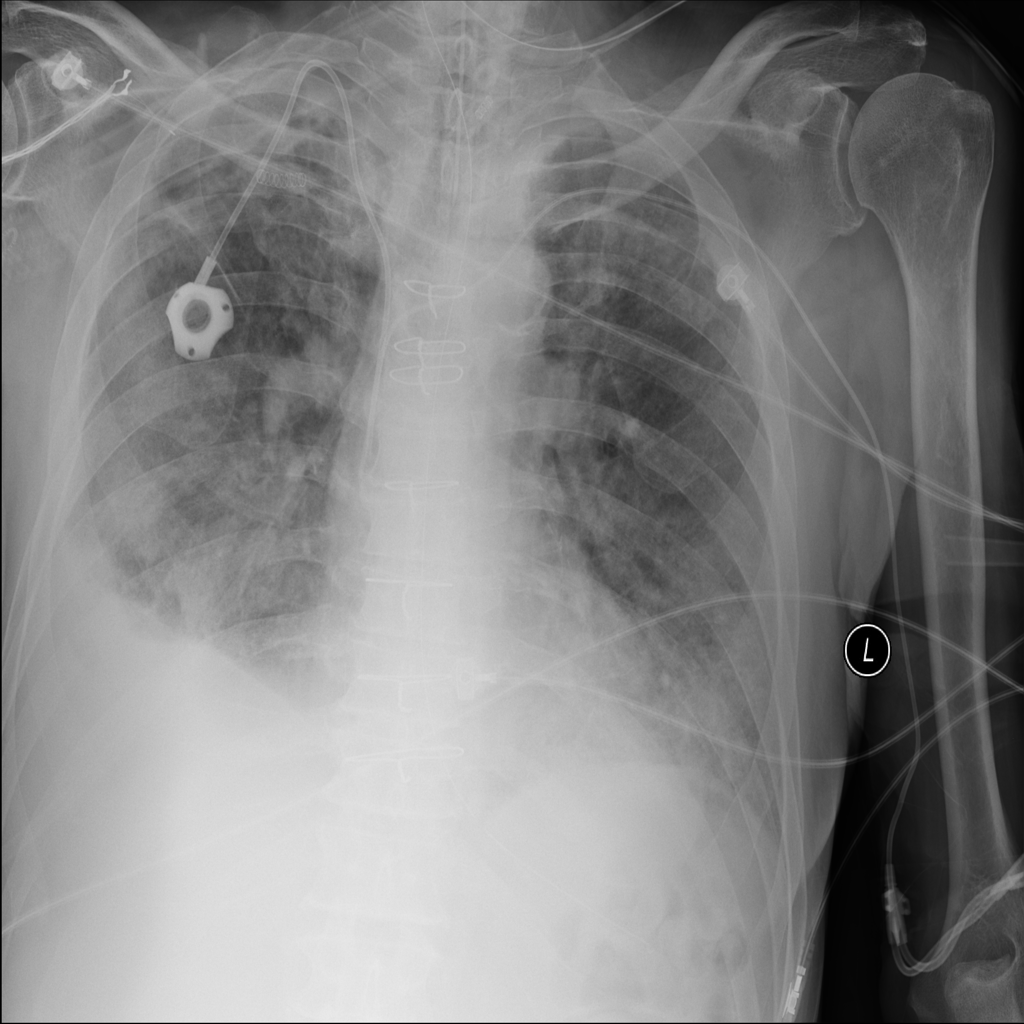
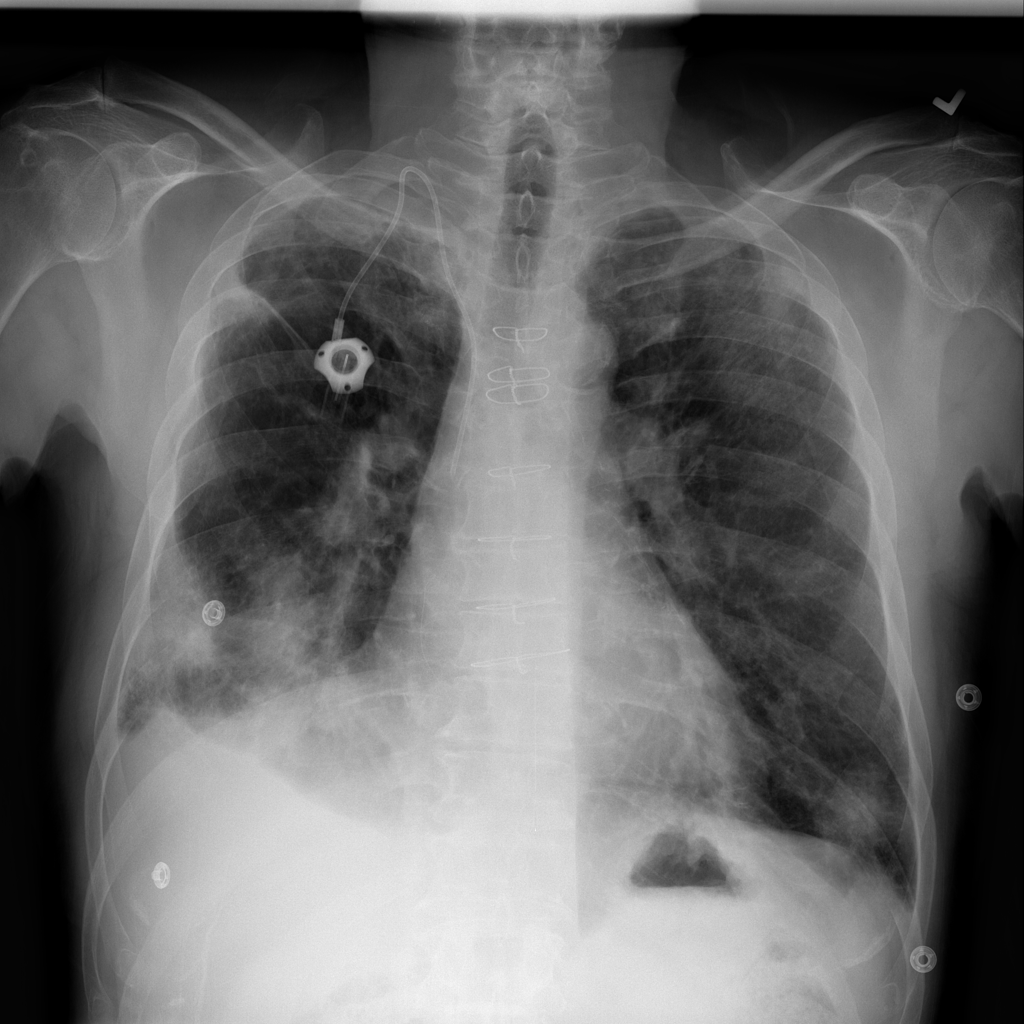
Enhance report generation with cross-verification section and integrate CLIP and BLIP outputs

diff --git a/src/report_generator.py b/src/report_generator.py
@@ -155,32 +155,66 @@ def generate_report(condition, confidence, region, urgency_note="", index=None):
     return report
 
 
-def generate_multi_condition_report(flagged_conditions, region, triage_result, index=None):
+def generate_multi_condition_report(
+    flagged_conditions, region, triage_result, index=None,
+    clip_scores=None, blip_caption=None, max_display=2,
+):
     """
-    Builds a structured, multi-section report covering every condition
-    that cleared its threshold (not just the single highest-confidence
-    one).
+    Builds a structured, multi-section report. Only the top `max_display`
+    conditions (by confidence) are shown in detail -- with a transparent
+    note naming any additional lower-confidence conditions that were also
+    flagged but not detailed -- rather than listing every condition that
+    cleared its (often fairly liberal, F1-optimal) threshold. This is a
+    display-layer decision only: triage_result must still be computed
+    upstream from the FULL flagged list (see triage.assess_multiple),
+    so a severe finding ranked 3rd by confidence still drives the urgency
+    recommendation even though it isn't detailed in the findings list.
+
+    clip_scores: dict {condition: probability} from clip_verify.clip_agreement(),
+                 or None if CLIP wasn't run / failed.
+    blip_caption: string from blip_caption.generate_caption(), or None.
     """
     if not flagged_conditions:
-        return generate_report("No Finding", 1.0, region, "", index=index)
+        base = generate_report("No Finding", 1.0, region, "", index=index)
+        return _append_cross_verification(base, None, clip_scores, blip_caption)
+
+    displayed = flagged_conditions[:max_display]
+    hidden = flagged_conditions[max_display:]
 
     lines = ["## AI-Assisted Findings\n"]
-    for cond, conf in flagged_conditions:
+    for cond, conf in displayed:
         phrase = CONDITION_PHRASES.get(cond, cond.lower())
         lines.append(f"- **{cond}**: {phrase} (confidence {round(conf*100, 1)}%)")
+
+    if hidden:
+        hidden_names = ", ".join(f"{c} ({round(conf*100, 1)}%)" for c, conf in hidden)
+        lines.append(
+            f"\n*{len(hidden)} additional condition(s) also flagged at lower "
+            f"confidence, not detailed above: {hidden_names}. All flagged "
+            f"conditions, including these, are factored into the triage "
+            f"recommendation below.*"
+        )
 
     lines.append(f"\nPrimary finding region (attention-based): {region}\n")
 
     lines.append("## Similar Documented Patterns\n")
     seen_precautions = []
-    for cond, conf in flagged_conditions:
+    for cond, conf in displayed:
         retrieved = retrieve_similar_report(index, cond) if index else None
         if retrieved:
             snippet = truncate_at_sentence(clean_report_text(retrieved), max_chars=250)
             lines.append(f"- **{cond}**: {snippet}")
+    # Precautions still cover the FULL flagged list (not just displayed) --
+    # safety information should never be trimmed for brevity, only the
+    # descriptive findings/pattern text above.
+    for cond, conf in flagged_conditions:
         precaution = PRECAUTIONS.get(cond)
         if precaution and precaution not in seen_precautions:
             seen_precautions.append(precaution)
+
+    primary_condition = flagged_conditions[0][0]
+    cross_verify_lines = _cross_verification_lines(primary_condition, clip_scores, blip_caption)
+    lines.extend(cross_verify_lines)
 
     lines.append(f"\n## Triage\n{triage_result['tier']} -- {triage_result['message']}\n")
 
@@ -190,6 +224,53 @@ def generate_multi_condition_report(flagged_conditions, region, triage_result, i
     lines.append(f"\n{PRECAUTION_DISCLAIMER}")
 
     return "\n".join(lines)
+
+
+def _cross_verification_lines(primary_condition, clip_scores, blip_caption):
+    """
+    Builds the '## Cross-Verification' section: an independent CLIP
+    zero-shot opinion (agrees/disagrees with the ViT prediction) plus a
+    general BLIP v1 caption, each clearly labeled so the reader
+    understands these are supplementary signals, not the primary
+    diagnosis (that's the ViT classifier + retrieval report above).
+    """
+    lines = []
+    if not clip_scores and not blip_caption:
+        return lines
+
+    lines.append("\n## Cross-Verification (Independent Models)\n")
+
+    if clip_scores:
+        clip_top_cond, clip_top_prob = max(clip_scores.items(), key=lambda kv: kv[1])
+        agrees = clip_top_cond == primary_condition
+        agreement_label = "agrees with" if agrees else "does NOT agree with"
+        lines.append(
+            f"- **CLIP (zero-shot, independent model)** {agreement_label} the primary "
+            f"finding. CLIP's top match: **{clip_top_cond}** "
+            f"({round(clip_top_prob * 100, 1)}%)."
+        )
+        if not agrees:
+            lines.append(
+                "  Disagreement between models does not necessarily mean either is "
+                "wrong -- it is a signal to weigh this case more carefully."
+            )
+
+    if blip_caption:
+        lines.append(
+            f"- **BLIP v1 general image caption** (not medical-specific, pretrained "
+            f"on natural photos, supplementary only): \"{blip_caption}\""
+        )
+
+    return lines
+
+
+def _append_cross_verification(report_text, primary_condition, clip_scores, blip_caption):
+    """Used for the No-Finding fallback path, which otherwise bypasses
+    the multi-condition builder above."""
+    extra = _cross_verification_lines(primary_condition, clip_scores, blip_caption)
+    if not extra:
+        return report_text
+    return report_text + "\n" + "\n".join(extra)
 
 
 if __name__ == "__main__":

diff --git a/src/inference.py b/src/inference.py
@@ -68,13 +68,9 @@ def run_pipeline(
 
     triage_result = assess_multiple(flagged)
 
-    report_index = load_index(report_index_path)
-    report_text = generate_multi_condition_report(
-        flagged, region, triage_result, index=report_index,
-    )
-
-    all_probs = {conditions[i]: probs[i].item() for i in range(len(conditions))}
-
+    # Run CLIP + BLIP BEFORE building the report text, so both can be
+    # woven directly into the report's Cross-Verification section rather
+    # than only shown separately in the app/PDF.
     clip_scores = None
     try:
         from clip_verify import clip_agreement
@@ -88,6 +84,14 @@ def run_pipeline(
         blip_caption = generate_caption(image_path)
     except Exception as e:
         print(f"[warning] BLIP captioning skipped: {e}")
+
+    report_index = load_index(report_index_path)
+    report_text = generate_multi_condition_report(
+        flagged, region, triage_result, index=report_index,
+        clip_scores=clip_scores, blip_caption=blip_caption,
+    )
+
+    all_probs = {conditions[i]: probs[i].item() for i in range(len(conditions))}
 
     return {
         "condition": primary_condition,

diff --git a/src/clip_verify.py b/src/clip_verify.py
@@ -1,6 +1,11 @@
 """
 Zero-shot CLIP verification. Independently checks the ViT classifier's
-prediction using a different pretrained model, no fine-tuning done.
+prediction by comparing the X-ray image against short text descriptions
+of each candidate condition using CLIP's joint image-text embedding
+space. This is a genuinely separate model with different pretraining
+than the ViT classifier -- no fine-tuning is done here (CLIP is used
+purely zero-shot), so it acts as an independent cross-check rather than
+a second trained classifier.
 """
 
 import torch
